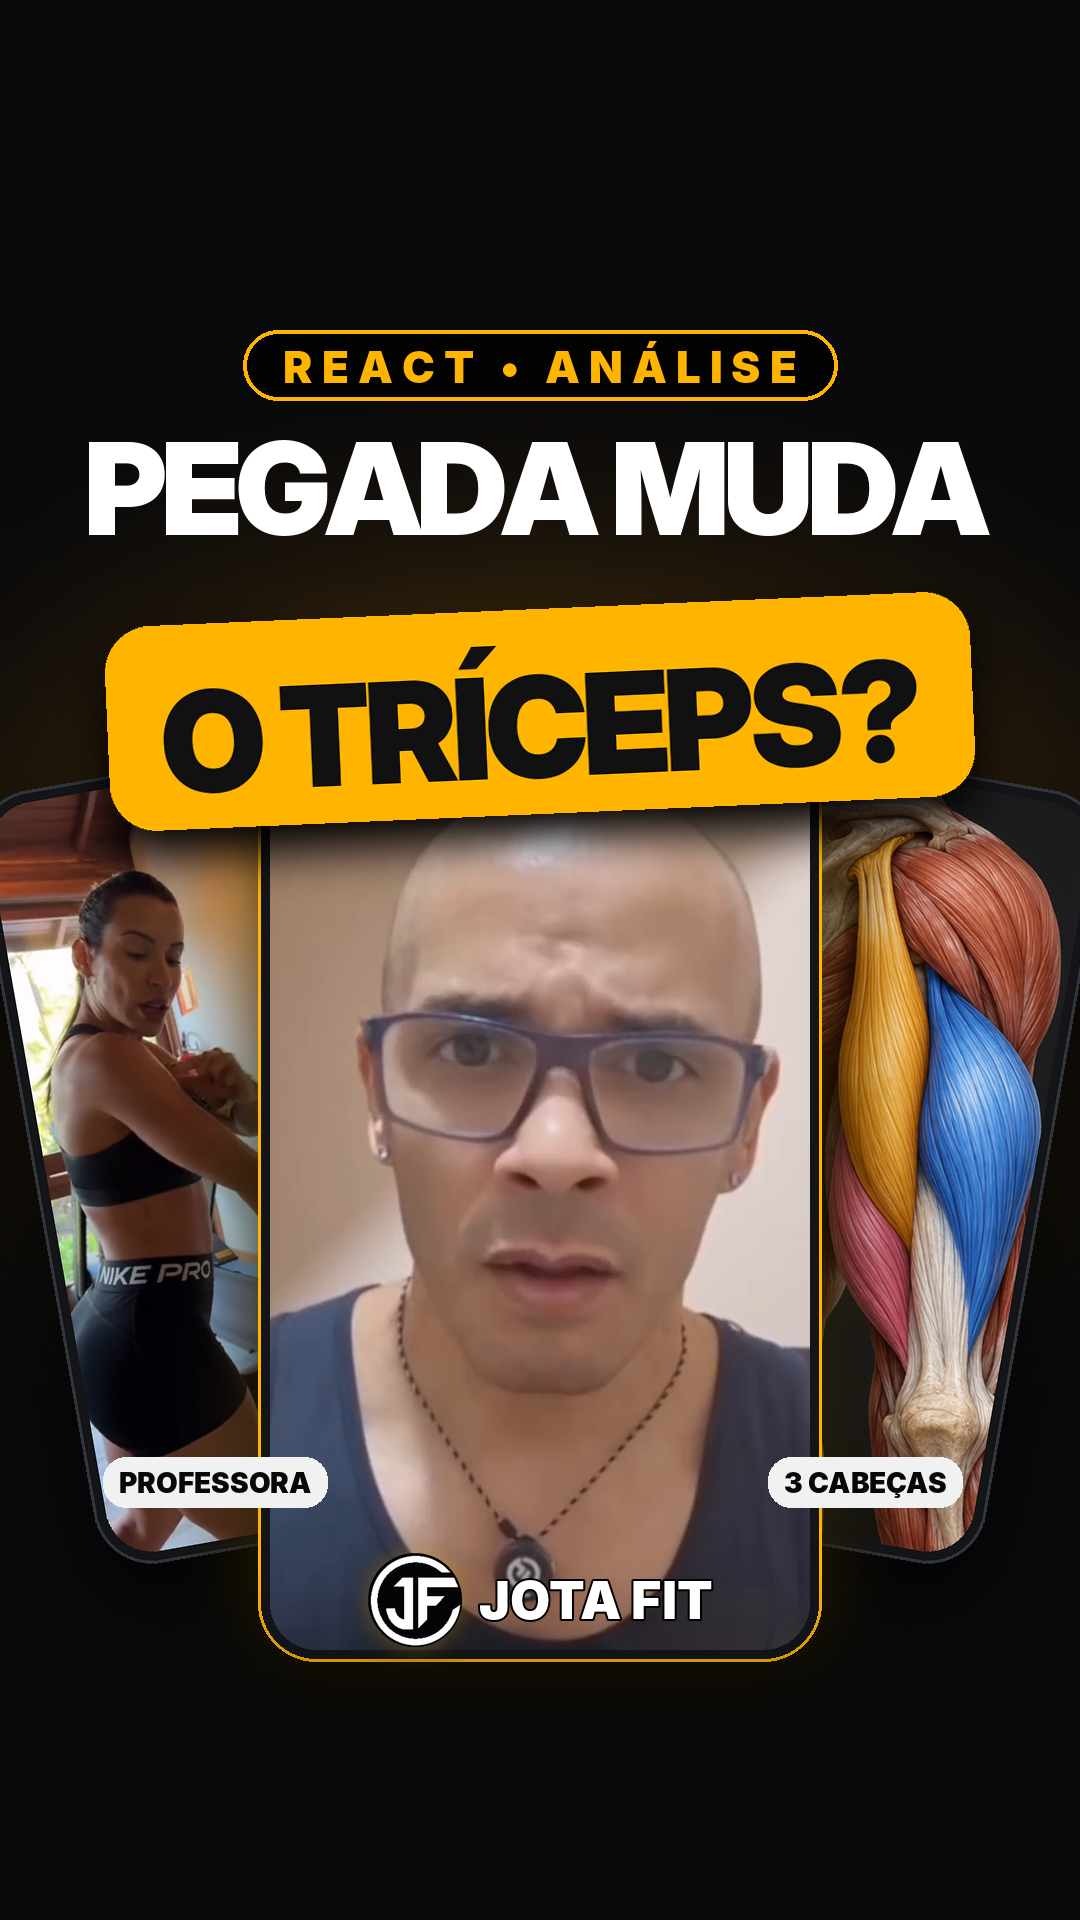
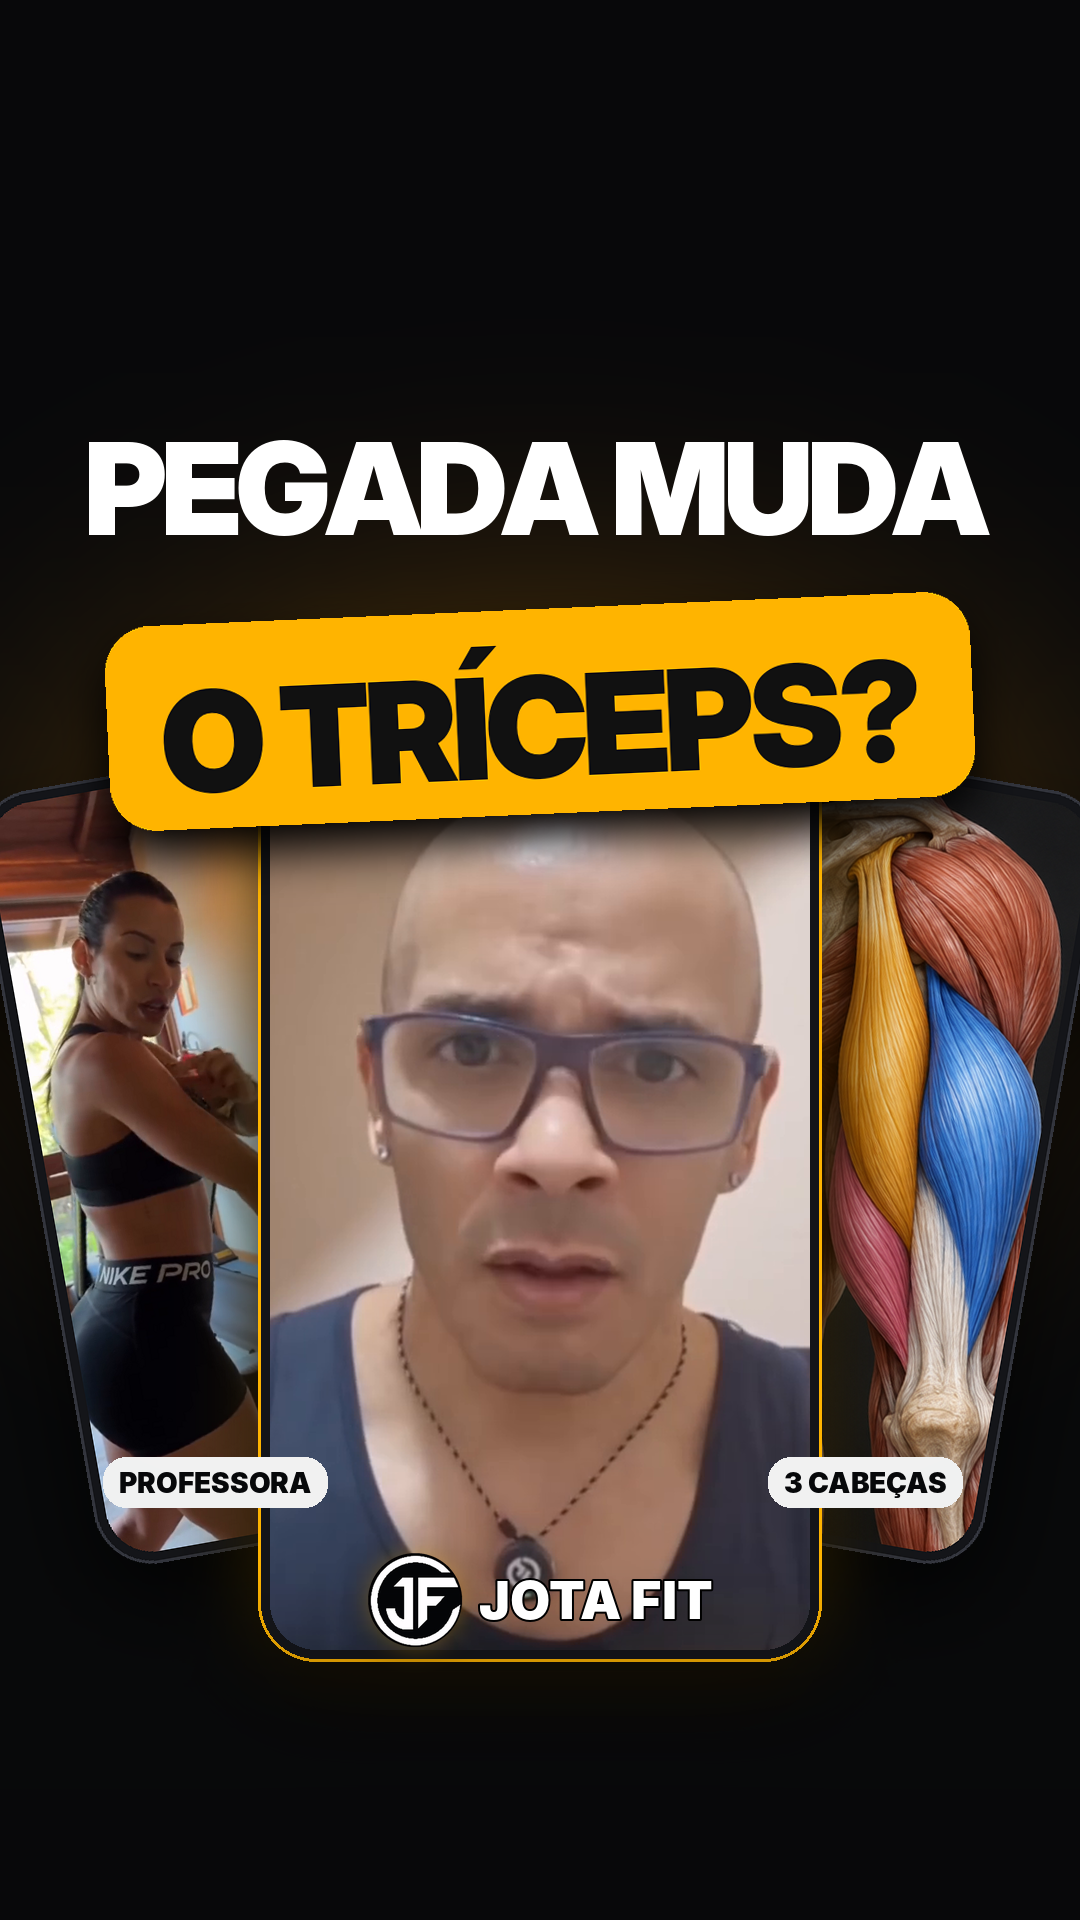
Cover: remove top tag
Claude-Session: https://claude.ai/code/session_01UuH9TpKCs4xLYma23g83NG

Changed region(s): [[0.4583, 0.1562, 0.7333, 0.2188], [0.2444, 0.1562, 0.4583, 0.2188]]

diff --git a/analises/react-triceps/scripts/cover2.py b/analises/react-triceps/scripts/cover2.py
@@ -59,15 +59,6 @@ lay.alpha_composite(Image.fromarray(fade))
 
 rc.pill(lay, 'PROFESSORA', 215, 1480, F('black', 28), (255, 255, 255, 240), DARK, 1, 16, 9)
 rc.pill(lay, '3 CABEÇAS', 865, 1480, F('black', 28), (255, 255, 255, 240), DARK, 1, 16, 9)
-# tag
-f_tag = F('black', 44); txt = 'REACT • ANÁLISE'; tr = 9
-tw = sum(f_tag.getlength(c) for c in txt) + tr * (len(txt) - 1)
-d = ImageDraw.Draw(lay)
-d.rounded_rectangle((W / 2 - tw / 2 - 40, 330, W / 2 + tw / 2 + 40, 400), 36, fill=(0, 0, 0, 200), outline=YEL + (255,), width=4)
-x = W / 2 - tw / 2
-for c in txt:
-    d.text((x, 367), c, font=f_tag, fill=YEL + (255,), anchor='lm'); x += f_tag.getlength(c) + tr
-
 # headline: white line + yellow tilted box, tight tracking
 l1 = tight('PEGADA MUDA', F('disp', 128), WHITE, -6)
 sh = Image.new('RGBA', (W, H)); sh.alpha_composite(l1, (int(W / 2 - l1.width / 2), 430 + 10))
